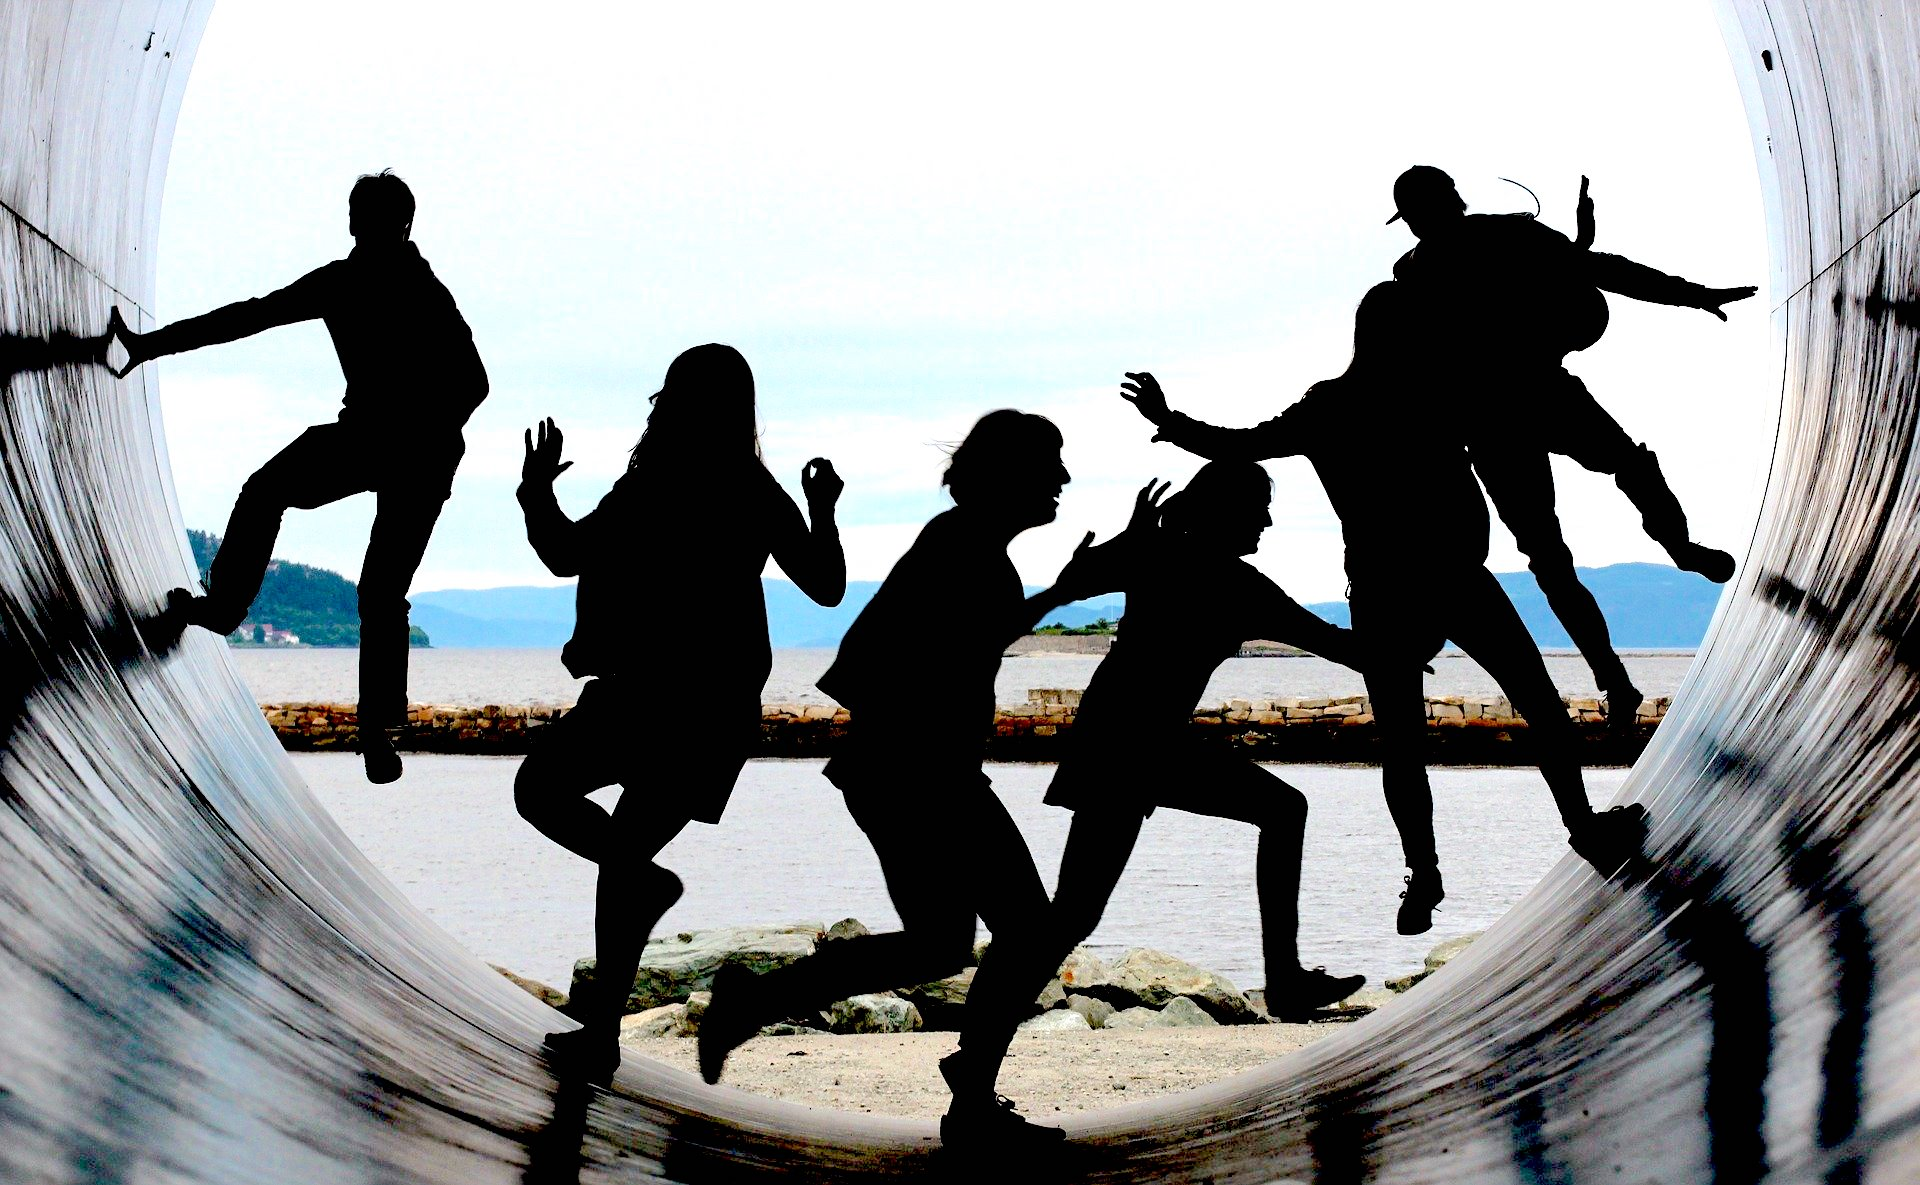
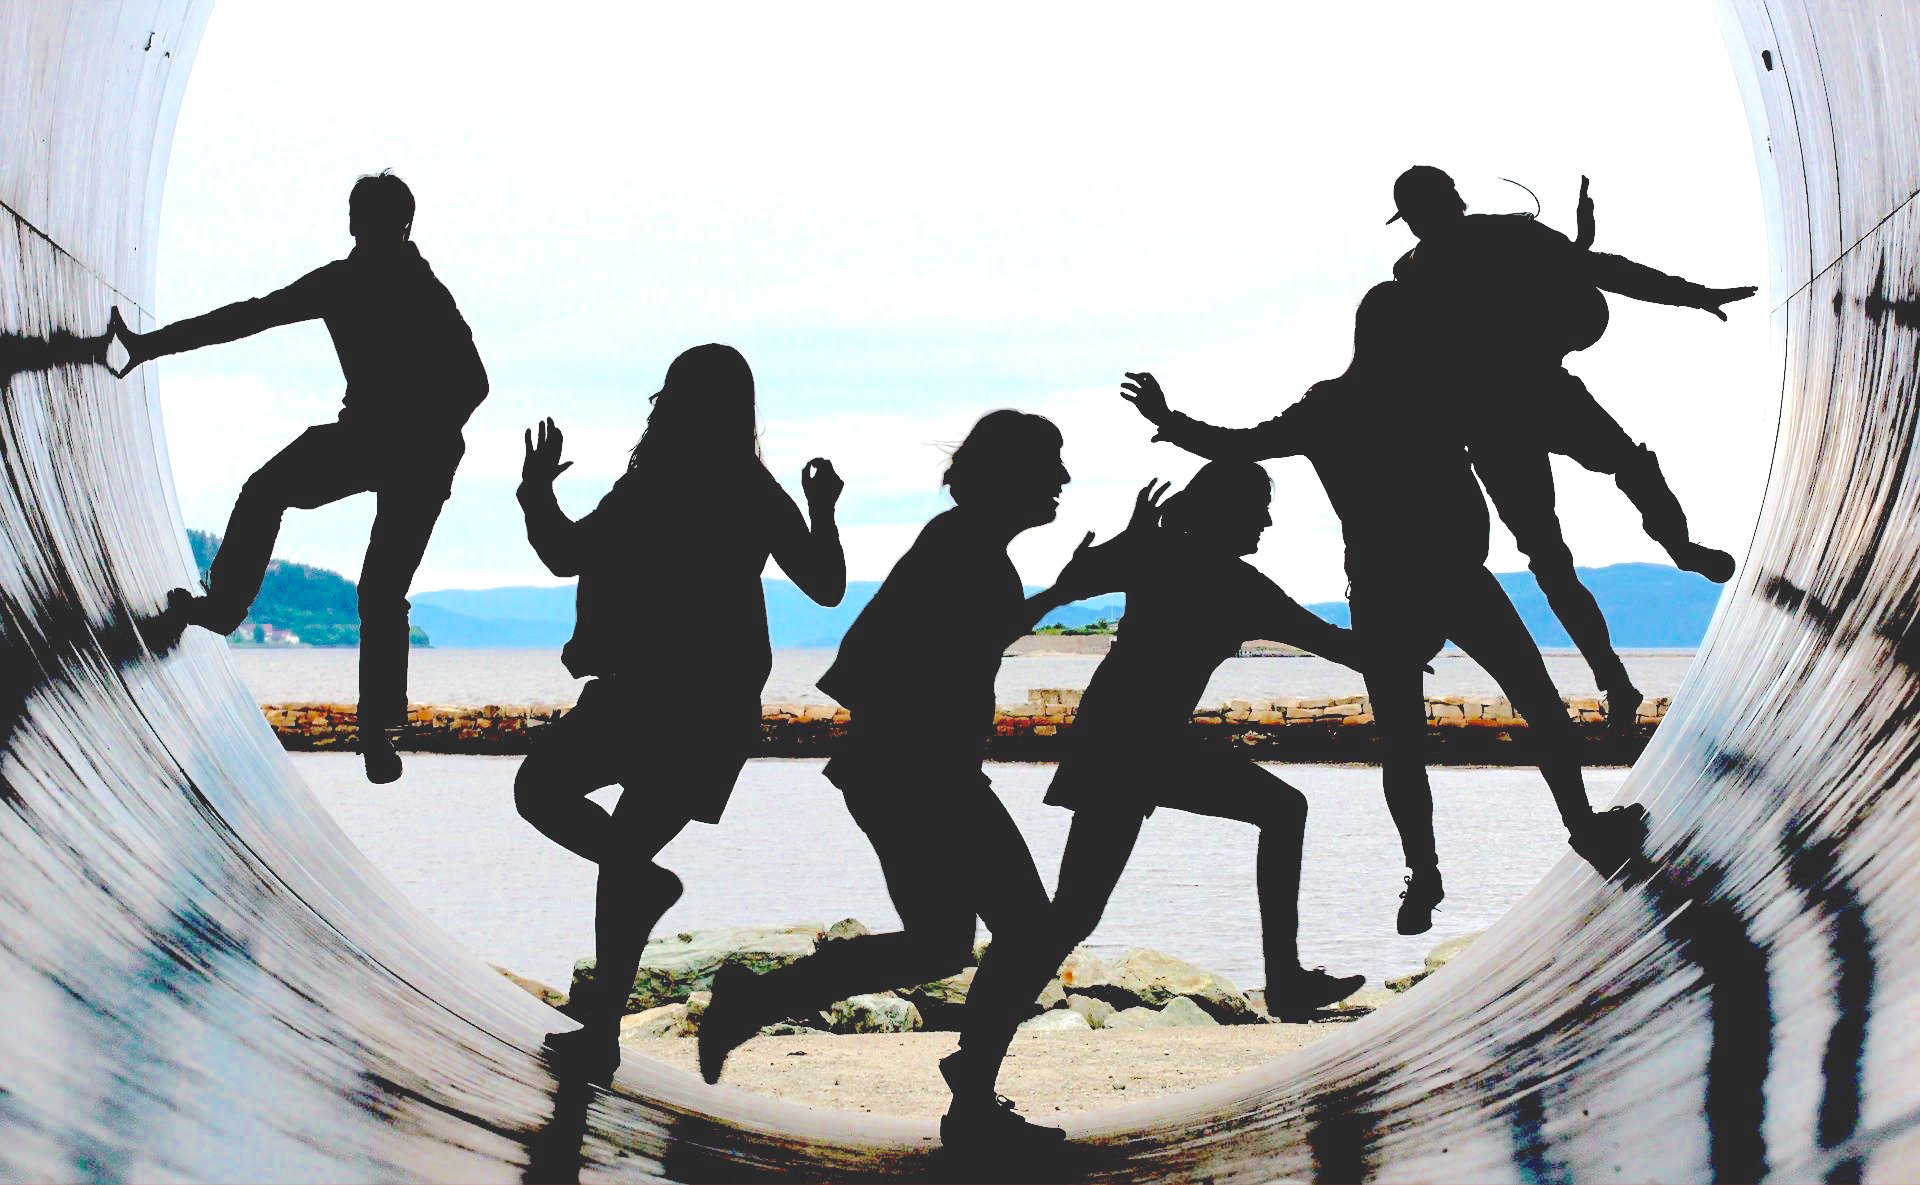
lightened the image slightly and added title font weight

diff --git a/static/css/main.css b/static/css/main.css
@@ -229,7 +229,7 @@ footer {
 /* TITLES */
 
 .log-title >h3 {
-    color: rgb(4, 89, 113);
+    font-weight: 600;
 }
 
 .sub-title {
